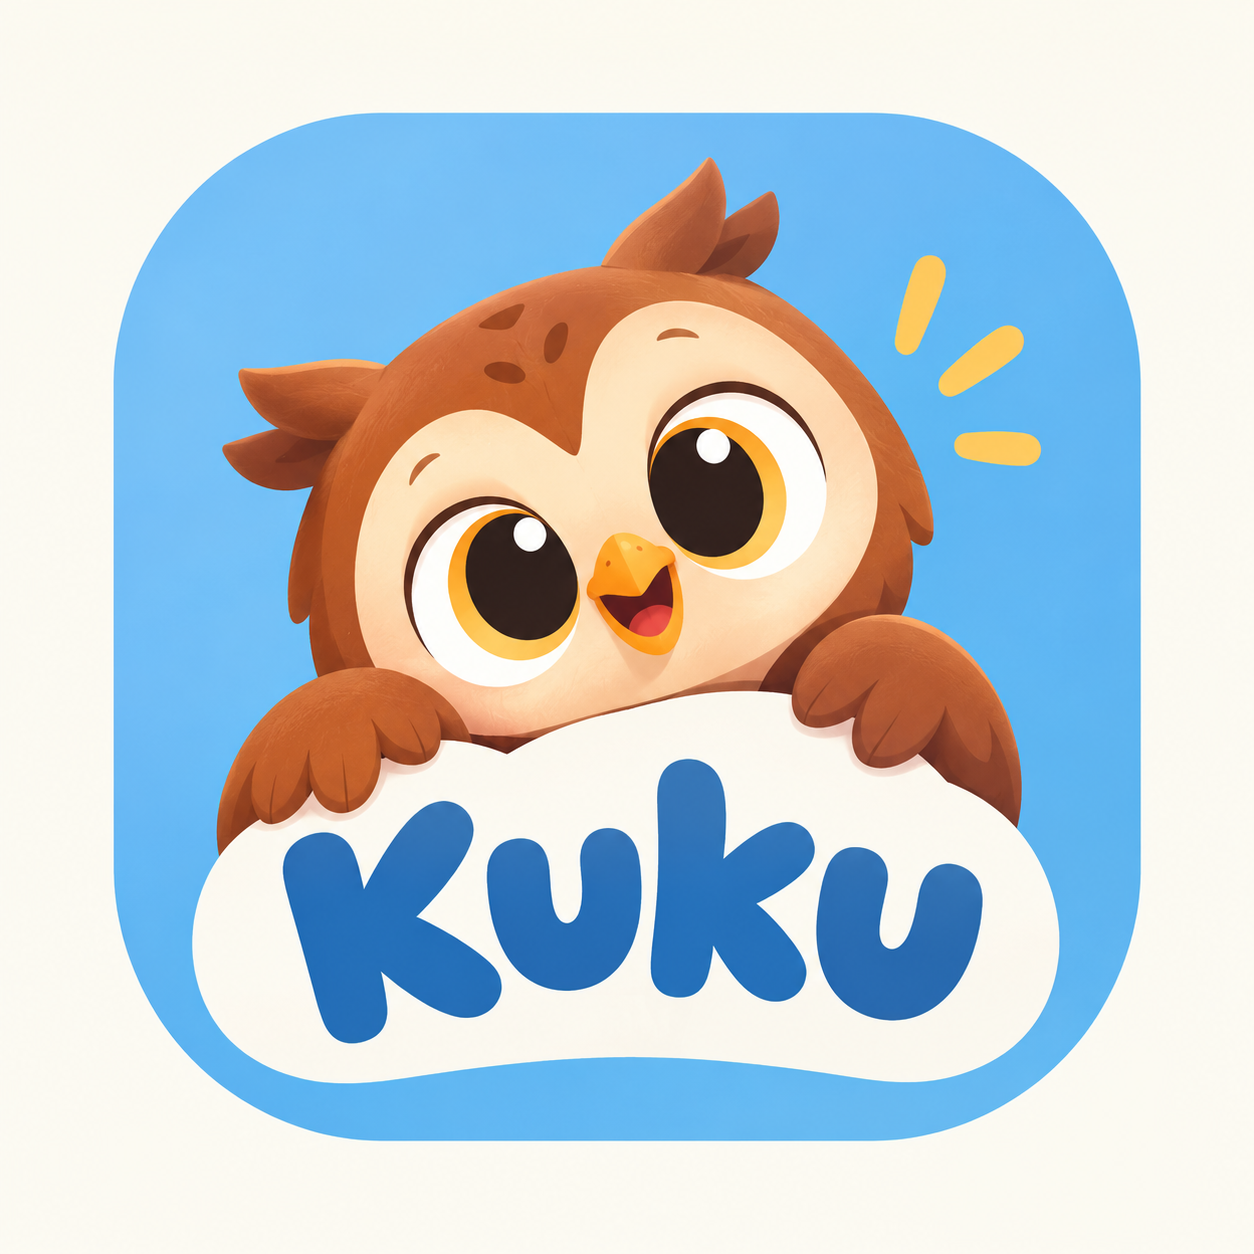
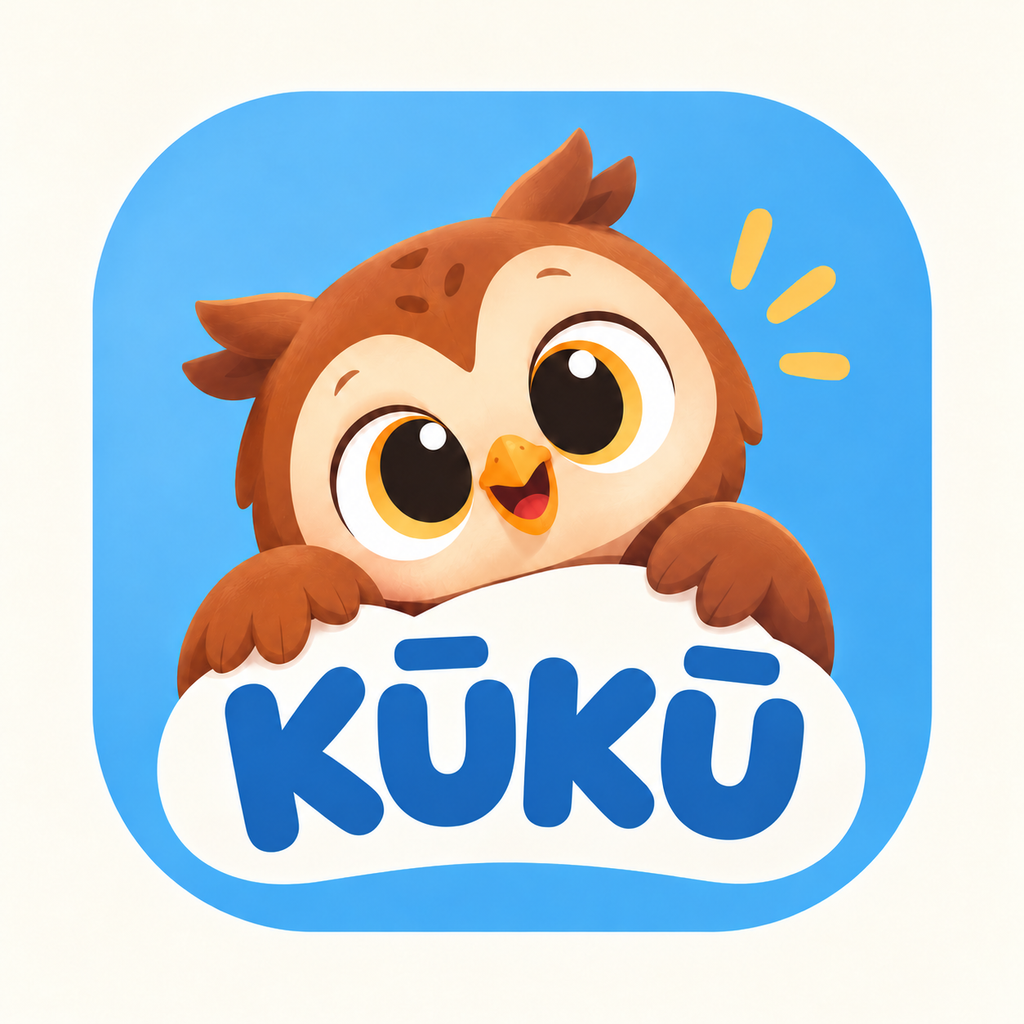
Use current KŪKŪ and KŪKŪ pasakos branding

diff --git a/src/pages/Portfolio.jsx b/src/pages/Portfolio.jsx
@@ -7,8 +7,8 @@ const projects = [
   { name: 'Nord Barbershop', url: 'https://nordbarbershop.lt', domain: 'nordbarbershop.lt', type: 'website', logo: '/projects/nord.jpeg', cover: true, color: 'from-stone-500/30 to-stone-900/30' },
   { name: 'Igmita', url: 'https://igmita.lt', domain: 'igmita.lt', type: 'website', logo: '/projects/igmita.png', color: 'from-emerald-400/20 to-teal-900/30' },
   { name: 'MarcoMatch', url: 'https://www.marcomatch.com/', domain: 'marcomatch.com', type: 'app', logo: '/projects/marcomatch.png', color: 'from-sky-400/25 to-indigo-900/30', appStore: 'https://apps.apple.com/app/id6797470286' },
-  { name: 'KukuApp', url: 'https://kukuapp.vercel.app/', domain: 'kukuapp.vercel.app', type: 'app', logo: '/projects/kukuapp.png', color: 'from-amber-300/25 to-orange-900/30', comingSoon: true },
-  { name: 'Vaikų pasakos', url: 'https://vaiku-pasakos-info.vercel.app/', domain: 'vaiku-pasakos-info.vercel.app', type: 'app', mark: 'V', color: 'from-violet-400/25 to-purple-900/30', comingSoon: true },
+  { name: 'KŪKŪ', url: 'https://kukuapp.vercel.app/', domain: 'kukuapp.vercel.app', type: 'app', logo: '/projects/kukuapp.png', containLogo: true, color: 'from-amber-300/25 to-orange-900/30', comingSoon: true },
+  { name: 'KŪKŪ pasakos', url: 'https://vaiku-pasakos-info.vercel.app/', domain: 'vaiku-pasakos-info.vercel.app', type: 'app', logo: '/projects/kuku-pasakos.png', containLogo: true, color: 'from-violet-400/25 to-purple-900/30', comingSoon: true },
 ];
 
 const copy = {
@@ -28,7 +28,7 @@ export default function Portfolio({ language }) {
             <article key={project.url} className="project-card">
               <a href={project.url} target="_blank" rel="noopener noreferrer" aria-label={`${project.name} — ${text.visit}`} className={`project-image group flex items-center justify-center bg-gradient-to-br ${project.color} focus-visible:outline focus-visible:outline-2 focus-visible:outline-sky-200`}>
                 {project.logo ? (
-                  <img src={project.logo} alt={`${project.name} logo`} width="96" height="96" loading="lazy" className="h-full w-full object-cover transition-transform group-hover:scale-105" />
+                  <img src={project.logo} alt={`${project.name} logo`} width="96" height="96" loading="lazy" className={`h-full w-full ${project.containLogo ? "object-contain" : "object-cover"} transition-transform group-hover:scale-105`} />
                 ) : (
                   <span aria-hidden="true" className="text-6xl font-semibold tracking-tight text-white/80 transition-transform group-hover:scale-110">{project.mark}</span>
                 )}
